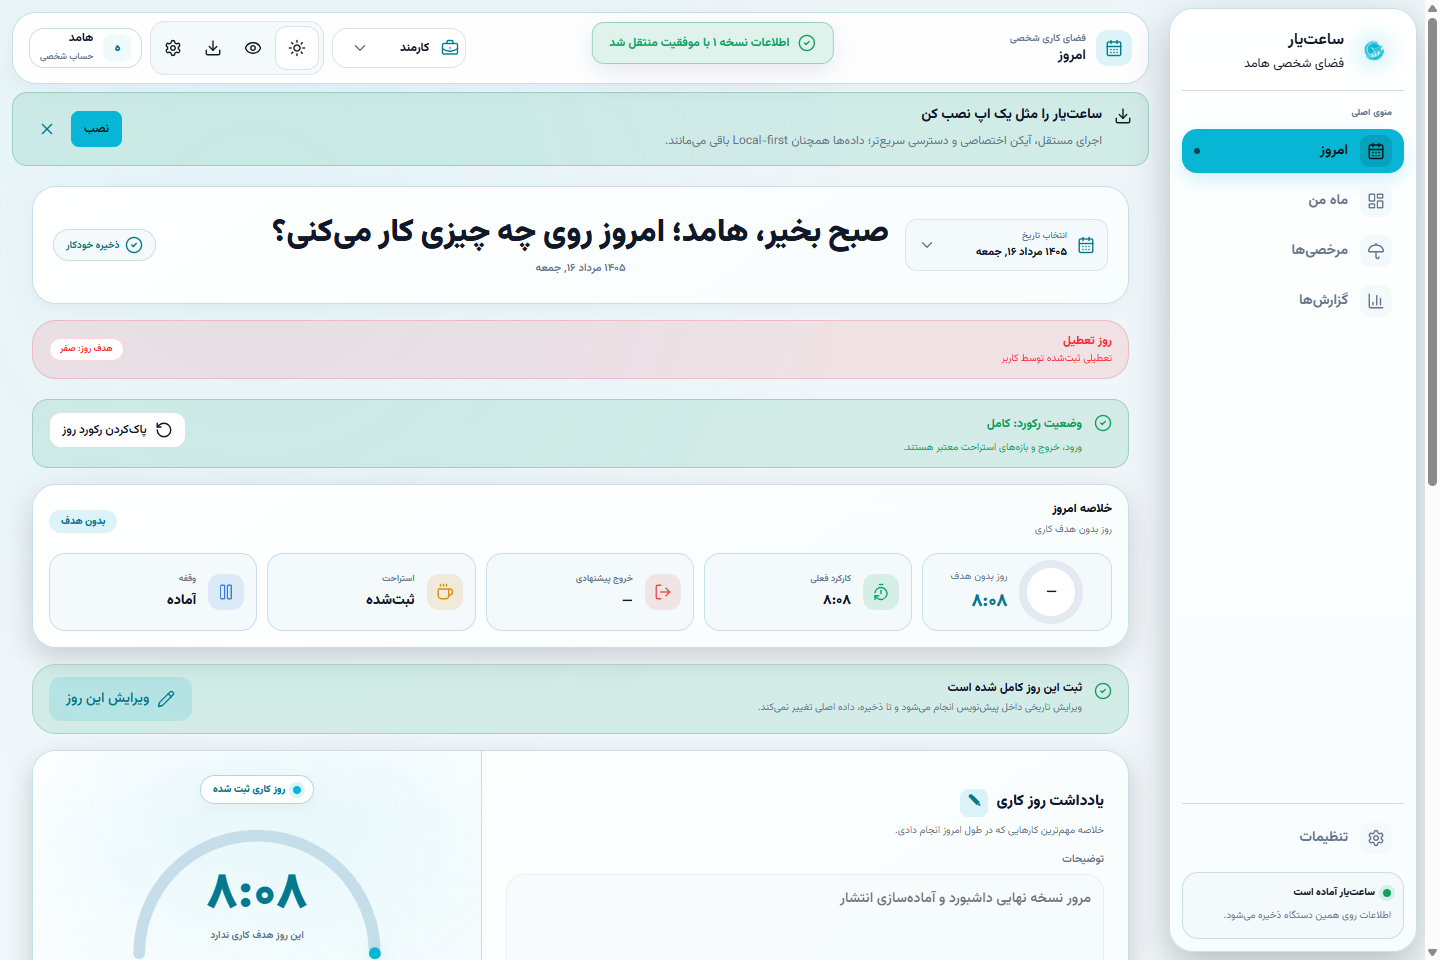
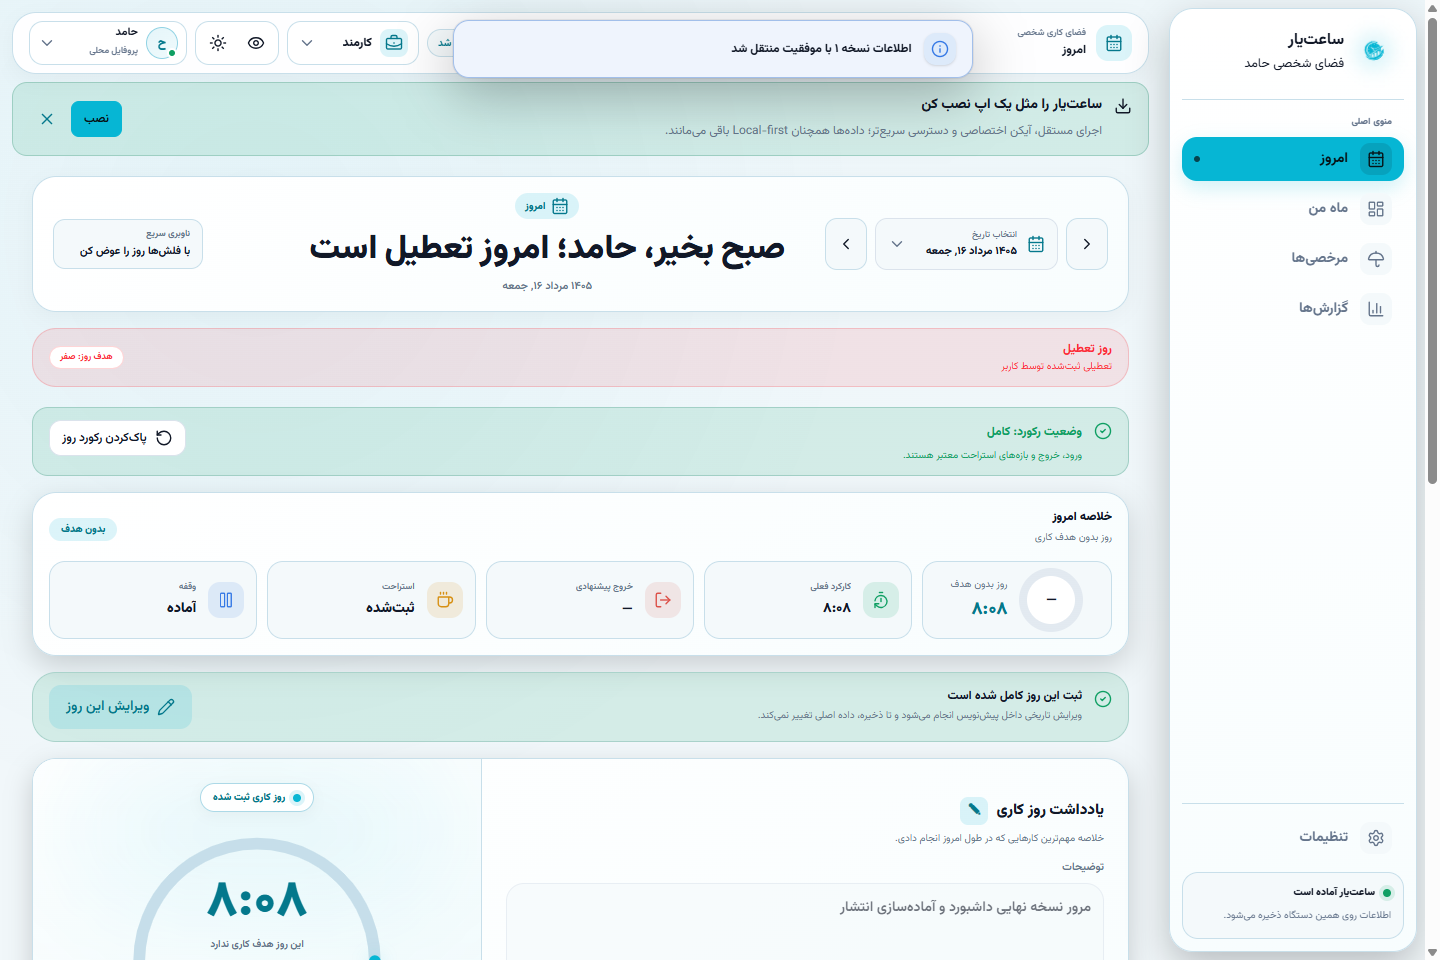
fix(pwa): remove effect state sync and add media capture

diff --git a/tests/recovery.test.ts b/tests/recovery.test.ts
@@ -18,10 +18,10 @@ test("creates a versioned recovery snapshot", () => {
 test("round-trips recovery data", () => {
   const source = {
     ...initialData,
-    settings: { ...initialData.settings, name: "هامد" },
+    settings: { ...initialData.settings, name: "حامد" },
   };
   const parsed = parseRecoverySnapshot(JSON.parse(serialiseRecoverySnapshot(createRecoverySnapshot(source))));
-  assert.equal(recoverySnapshotToData(parsed).settings.name, "هامد");
+  assert.equal(recoverySnapshotToData(parsed).settings.name, "حامد");
 });
 
 test("rejects malformed recovery snapshots", () => {

diff --git a/scripts/media/demo-data.ts b/scripts/media/demo-data.ts
@@ -33,7 +33,7 @@ function record(date: string, start: string, end: string, note: string, override
 export function createMediaDemoData(anchorIso = "2026-08-07T10:30:00+03:30"): AppData {
   const anchor = new Date(anchorIso);
   const data = createInitialData({ onboarded: true });
-  data.settings.name = "هامد";
+  data.settings.name = "حامد";
   data.settings.mode = "employee";
   data.settings.salary = 48_000_000;
   data.settings.weeklyMinutes = 42 * 60 + 30;
